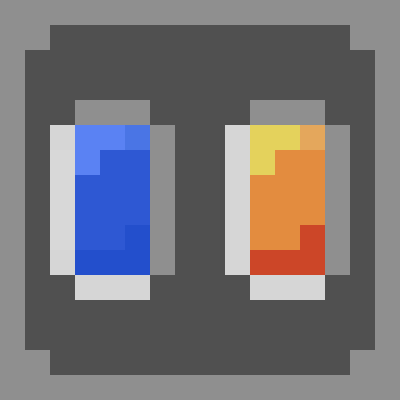
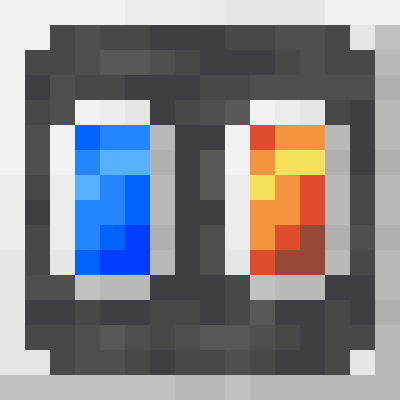
Version 1.1.5

diff --git a/src/main/java/dev/fulmineo/simple_cobblestone_generator/block/AbstractCobblestoneGenerator.java b/src/main/java/dev/fulmineo/simple_cobblestone_generator/block/AbstractCobblestoneGenerator.java
@@ -11,7 +11,6 @@ import net.fabricmc.api.EnvType;
 import net.fabricmc.api.Environment;
 import net.fabricmc.fabric.api.object.builder.v1.block.FabricBlockSettings;
 import net.fabricmc.fabric.api.screenhandler.v1.ExtendedScreenHandlerFactory;
-import net.fabricmc.fabric.api.tool.attribute.v1.FabricToolTags;
 import net.minecraft.block.Block;
 import net.minecraft.block.BlockRenderType;
 import net.minecraft.block.BlockState;
@@ -56,7 +55,7 @@ public abstract class AbstractCobblestoneGenerator extends BlockWithEntity {
 	private String name;
 
 	public AbstractCobblestoneGenerator(int tier) {
-		super(FabricBlockSettings.of(Material.METAL, Blocks.IRON_BLOCK.getDefaultMapColor()).strength(2.0f, 3.0f).sounds(BlockSoundGroup.METAL).breakByTool(FabricToolTags.PICKAXES, 2));
+		super(FabricBlockSettings.of(Material.METAL, Blocks.IRON_BLOCK.getDefaultMapColor()).strength(2.0f, 3.0f).sounds(BlockSoundGroup.METAL));
 		this.tier = tier;
 		this.name = "generator_tier" + tier;
 		this.setDefaultState((BlockState)((BlockState)((BlockState)this.stateManager.getDefaultState()).with(FACING, Direction.NORTH)));

diff --git a/changelog.md b/changelog.md
@@ -1,3 +1,6 @@
+# 1.1.5
+- Revamped all the textures thanks to DH!
+
 # 1.1.4
 - Updated to Minecraft version 1.17.1
 
